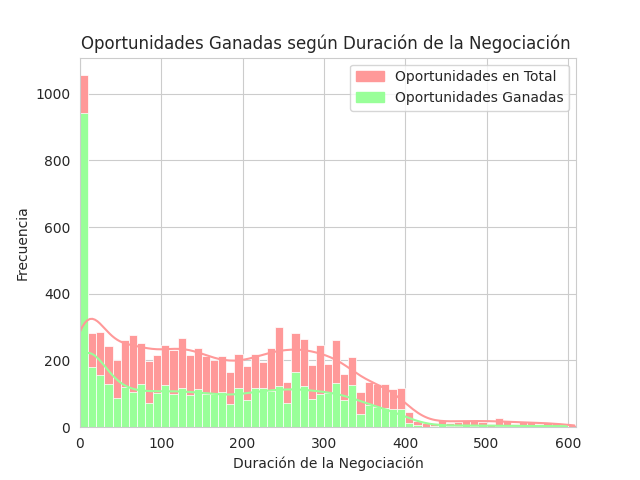
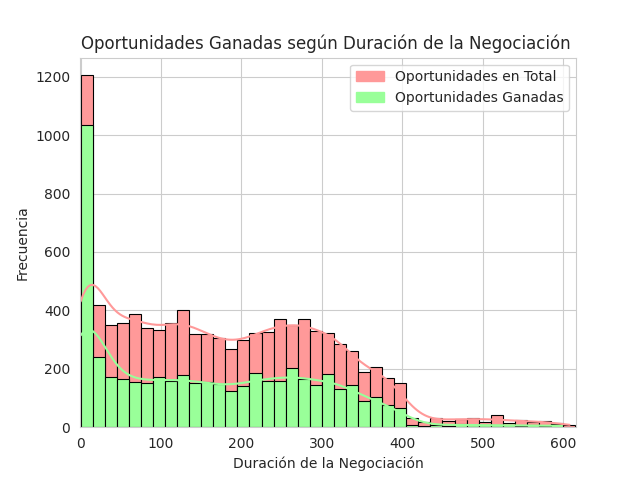
Added Opportunity Owner Analysis. Added TRF Analysis

diff --git a/Tp1/BySanti/trf.py b/Tp1/BySanti/trf.py
@@ -1,0 +1,190 @@
+import pandas as pd
+import matplotlib.pyplot as plt
+import matplotlib.patches as mpatches
+import numpy as np
+import seaborn as sns
+
+import filter
+from print import *
+import graph_counter
+
+
+def trf(counter):
+    original = pd.read_csv("file.csv")
+    filter.full_correction(original)
+
+    set_up_stats(original)
+
+    set_output("trf_stats.txt")
+    trf_stats(original)
+    trf_won(original, counter)
+    trf_cut_won(original, counter)
+
+    reset_output()
+
+
+def set_up_stats(df):
+    df.rename(columns={"Total_Power": "TRF"}, inplace=True)
+    df["TRF_Won"] = df.loc[df["Stage"] == "Closed Won", :]["TRF"]
+    df["TRF_Lost"] = df.loc[df["Stage"] == "Closed Lost", :]["TRF"]
+
+
+def trf_stats(df):
+    print_title("Estadística de Toneladas de Refrigeración")
+
+    print_subtitle("Valores Únicos")
+    val_unicos = df["TRF"].nunique()
+    printt(f"{val_unicos}")
+
+    newline()
+
+    print_subtitle("Medidas Estadísticas")
+
+    avg = df["TRF"].mean()
+    minimum = df["TRF"].min()
+    maximum = df["TRF"].max()
+    std_dev = df["TRF"].std()
+    median = df["TRF"].median()
+
+    printt(f"Promedio & {pretty_f(avg)}")
+    printt(f"Mínimo & {minimum}")
+    printt(f"Máximo & {maximum}")
+    printt(f"Desviación Estándar & {pretty_f(std_dev)}")
+    printt(f"Mediana & {median}")
+
+    newline()
+
+    print_subtitle("Medidas Estadísticas de las Oportunidades Ganadas")
+    avg_won = df["TRF_Won"].mean()
+    minimum_won = df["TRF_Won"].min()
+    maximum_won = df["TRF_Won"].max()
+    std_dev_won = df["TRF_Won"].std()
+    median_won = df["TRF_Won"].median()
+
+    printt(f"Promedio de los Valores & {pretty_f(avg_won)}")
+    printt(f"Valor Mínimo & {minimum_won}")
+    printt(f"Valor Máximo & {maximum_won}")
+    printt(f"Desviación Estándar & {pretty_f(std_dev_won)}")
+    printt(f"Mediana & {median_won}")
+
+    newline()
+
+    print_subtitle("Medidas Estadísticas de las Oportunidades Perdidas")
+    avg_lost = df["TRF_Lost"].mean()
+    minimum_lost = df["TRF_Lost"].min()
+    maximum_lost = df["TRF_Lost"].max()
+    std_dev_lost = df["TRF_Lost"].std()
+    median_lost = df["TRF_Lost"].median()
+
+    printt(f"Promedio de los Valores & {pretty_f(avg_lost)} ")
+    printt(f"Valor Mínimo & {minimum_lost}")
+    printt(f"Valor Máximo & {maximum_lost}")
+    printt(f"Desviación Estándar & {pretty_f(std_dev_lost)}")
+    printt(f"Mediana & {median_lost}")
+
+    newline()
+
+
+def trf_won(df, counter):
+    percentile90 = df["TRF"].value_counts().quantile(0.75)
+
+    df["TRF"] = df["TRF"].astype(str)
+
+    df["TRF_Count"] = df.groupby(
+        "TRF")["TRF"].transform("count")
+
+    df = df.loc[df["TRF_Count"] > percentile90, :]
+
+    print_subtitle("Percentil 25 Superior")
+    datos = df["TRF"].count()
+    printt(f"Datos: {datos}")
+
+    values = len(df["TRF"].value_counts())
+    bins = np.arange(values + 1) + 0.5
+    patch_red = mpatches.Patch(
+        color="#ff9999", label="Oportunidades en Total")
+    patch_green = mpatches.Patch(
+        color="#99ff99", label="Oportunidades Ganadas")
+
+    plt.bar(df["TRF"].value_counts().index, df["TRF"].value_counts(),
+            width=0.7, align="center", color="#ff9999")
+
+    df = df.loc[df["Stage"] == "Closed Won", :]
+
+    plt.bar(df["TRF"].value_counts().index,
+            df["TRF_Won"].value_counts(), width=0.7, align="center", color="#99ff99")
+
+    plt.title("Oportunidades por Potencia del Producto")
+    plt.xlabel("Potencia (TRF)")
+    plt.ylabel("Frecuencia")
+    plt.xticks(rotation=90, size=7.5)
+    plt.legend(handles=[patch_red, patch_green])
+
+    plt.savefig("graphics/trf_hist.png")
+
+    counter.increase_count()
+
+
+def trf_cut_won(df, counter):
+    df["TRF"] = pd.to_numeric(df["TRF"])
+    df = df.loc[(df["Stage"] == "Closed Won") |
+                (df["Stage"] == "Closed Lost"), :]
+
+    q1 = df["TRF"].quantile(0.25)
+    q3 = df["TRF"].quantile(0.75)
+    ric = q3 - q1
+    li = q1 - 1.5 * ric
+    ls = q3 + 1.5 * ric
+    df.loc[df["TRF"] > ls, "TRF"] = -1
+
+    df["TRF"] = df["TRF"].astype(str)
+    df["TRF"].replace({"-1": "Otro"}, inplace=True)
+
+    # df = df.loc[df["TRF"] > li, :]
+
+    labels = []
+    sizes = []
+    labels_stage = []
+    sizes_stage = []
+    colors = ["#66b3ff", "#ffcc99",   "#dfa7f2", "#ffb3e6", ]
+    stages = ["Closed Won", "Closed Lost"]
+    colors_stage_values = {"Closed Won": "#99ff99", "Closed Lost": "#ff9999"}
+    colors_stage = []
+
+    for value in df["TRF"].unique():
+        labels.append(f"{value} TRF")
+        cut = df.loc[df["TRF"] == value, :]
+        sizes.append(cut["TRF"].count())
+
+        for stage in stages:
+            labels_stage.append(stage)
+            cut2 = cut.loc[cut["Stage"] == stage, :]
+            sizes_stage.append(cut2["Stage"].count())
+            colors_stage.append(colors_stage_values[stage])
+
+    labels[0] = "Otros"
+
+    patch_red = mpatches.Patch(color="#ff9999", label="Oportunidades Fallidas")
+    patch_green = mpatches.Patch(
+        color="#99ff99", label="Oportunidades Exitosas")
+
+    plt.figure(counter.get_count())
+    plt.title("Oportunidades según Toneladas de Refrigeración", pad=20)
+    plt.pie(sizes, labels=labels, colors=colors, startangle=60,
+            frame=True, autopct='%2.2f%%', pctdistance=0.87)
+    plt.pie(sizes_stage, colors=colors_stage, radius=0.75, startangle=60)
+    centre_circle = plt.Circle(
+        (0, 0), 0.5, color='black', fc='white', linewidth=0)
+    fig = plt.gcf()
+    fig.gca().add_artist(centre_circle)
+
+    plt.axis('equal')
+    plt.tight_layout()
+    plt.legend(handles=[patch_red, patch_green])
+
+    plt.savefig("graphics/trf_pie.png")
+    counter.increase_count()
+
+
+counter = graph_counter.Counter()
+trf(counter)

diff --git a/Tp1/BySanti/opportunity_owner.py b/Tp1/BySanti/opportunity_owner.py
@@ -1,0 +1,124 @@
+import pandas as pd
+import matplotlib.pyplot as plt
+import matplotlib.patches as mpatches
+import numpy as np
+import seaborn as sns
+
+import filter
+from print import *
+import graph_counter
+
+
+def opportunity_owner(counter):
+    original = pd.read_csv("file.csv")
+    filter.full_correction(original)
+
+    original = original.drop_duplicates(subset="Opportunity_Name")
+
+    set_up_stats(original)
+
+    set_output("opportunity_owner_stats.txt")
+    opportunity_owner_stats(original)
+    opportunity_owner_won(original, counter)
+
+    reset_output()
+    return
+
+
+def set_up_stats(df):
+    df["Opportunity_Owner_Won"] = df.loc[df["Stage"]
+                                         == "Closed Won", :]["Opportunity_Owner"]
+    df["Opportunity_Created_Month"] = df["Opportunity_Created_Date"].apply(
+        lambda x: x.month)
+
+
+def opportunity_owner_stats(df):
+    print_title("Estadística del Tipo de Producto")
+
+    print_subtitle("Rango de Identificadores")
+    min_val = df["Opportunity_Owner"].min()
+    max_val = df["Opportunity_Owner"].max()
+    printt(f"{min_val} - {max_val}")
+
+    newline()
+
+    print_subtitle("Cantidad de Vendedores Totales")
+    vendedores = df["Opportunity_Owner"].nunique()
+    printt(f"{vendedores}")
+
+    newline()
+
+    print_subtitle("Cantidad de Vendedores Máximo en un Mes")
+    max_vendedores = df.groupby("Opportunity_Created_Month")[
+        "Opportunity_Owner"].nunique().max()
+    printt(f"{max_vendedores}")
+
+    newline()
+
+    print_subtitle("Cantidad de Oportunidades Máxima por un Vendedor")
+    opors = df.groupby("Opportunity_Owner")["Opportunity_ID"].nunique().max()
+    printt(f"{opors}")
+
+    newline()
+
+    print_subtitle(
+        "Cantidad de Oportunidades Máxima por un Vendedor en un Mes")
+    max_opors = df.groupby(["Opportunity_Owner", "Opportunity_Created_Month"])[
+        "Opportunity_ID"].nunique().max()
+    printt(f"{max_opors}")
+
+    newline()
+
+    print_subtitle("Cantidad de Oportunidades Exitosas Máxima por un Vendedor")
+    opors = df.groupby("Opportunity_Owner_Won")[
+        "Opportunity_ID"].nunique().max()
+    printt(f"{opors}")
+
+    newline()
+
+    print_subtitle(
+        "Cantidad de Oportunidades Exitosas Máxima por un Vendedor en un Mes")
+    max_opors = df.groupby(["Opportunity_Owner_Won", "Opportunity_Created_Month"])[
+        "Opportunity_ID"].nunique().max()
+    printt(f"{max_opors}")
+
+    newline()
+
+
+def opportunity_owner_won(df, counter):
+    df["Opportunity_Owner"] = df["Opportunity_Owner"].astype(str)
+
+    df["Opportunity_Owner_Count"] = df.groupby(
+        "Opportunity_Owner")["Opportunity_ID"].transform("count")
+
+    patch_red = mpatches.Patch(
+        color="#ff9999", label="Oportunidades en Total")
+    patch_green = mpatches.Patch(
+        color="#99ff99", label="Oportunidades Ganadas")
+
+    plt.figure(counter.get_count())
+
+    plt.bar(df["Opportunity_Owner"].value_counts().index, df["Opportunity_Owner"].value_counts(),
+            width=0.7, align="center", color="#ff9999")
+
+    df = df.loc[df["Stage"] == "Closed Won", :]
+
+    plt.bar(df["Opportunity_Owner"].value_counts().index,
+            df["Opportunity_Owner_Won"].value_counts(), width=0.7, align="center", color="#99ff99")
+
+    plt.title("Oportunidades por Vendedor", pad=10)
+    plt.xlabel("Número de Vendedor")
+    plt.ylabel("Frecuencia")
+
+    plt.xticks(rotation=90, size=7.5)
+    plt.xlim(-1, 53)
+    plt.grid(b=True, axis="y")
+    plt.legend(handles=[patch_red, patch_green])
+    plt.tight_layout()
+    plt.savefig("graphics/opportunity_owner_hist.png")
+
+    counter.increase_count()
+
+
+counter = graph_counter.Counter()
+opportunity_owner(counter)

diff --git a/Tp1/BySanti/negotiation_length.py b/Tp1/BySanti/negotiation_length.py
@@ -99,7 +99,7 @@ def negotiation_length_won(df, counter):
     ls = q3 + 1.5 * ric
     df = df.loc[df["Negotiation_Length"] > li, :]
     df = df.loc[df["Negotiation_Length"] < ls, :]
-    max_value = df["Negotiation_Length"].max()
+    # max_value = df["Negotiation_Length"].max() used for xlim
 
     patch_red = mpatches.Patch(color="#ff9999", label="Oportunidades en Total")
     patch_green = mpatches.Patch(
@@ -107,17 +107,17 @@ def negotiation_length_won(df, counter):
 
     plt.figure(counter.get_count())
     sns.set_style("whitegrid")
-    sns.histplot(df["Negotiation_Length"], binwidth=10,
-                 color="#ff9999", kde=True, line_kws={"alpha": 1}, alpha=1)
+    sns.histplot(df["Negotiation_Length"], binwidth=15,
+                 color="#ff9999", ec="black", kde=True, line_kws={"alpha": 1}, alpha=1)
     sns.histplot(df["Negotiation_Length_Won"],
-                 binwidth=10, color="#99ff99", kde=True, line_kws={"alpha": 1}, alpha=1)
+                 binwidth=15, color="#99ff99", ec="black", kde=True, line_kws={"alpha": 1}, alpha=1)
 
     plt.title("Oportunidades Ganadas según Duración de la Negociación ")
     plt.xlabel("Duración de la Negociación")
     plt.ylabel("Frecuencia")
 
     plt.legend(handles=[patch_red, patch_green])
-    plt.xlim(0, 610)
+    plt.xlim(-0.7, 616)
 
     plt.savefig("graphics/negotiation_length.png")
 
